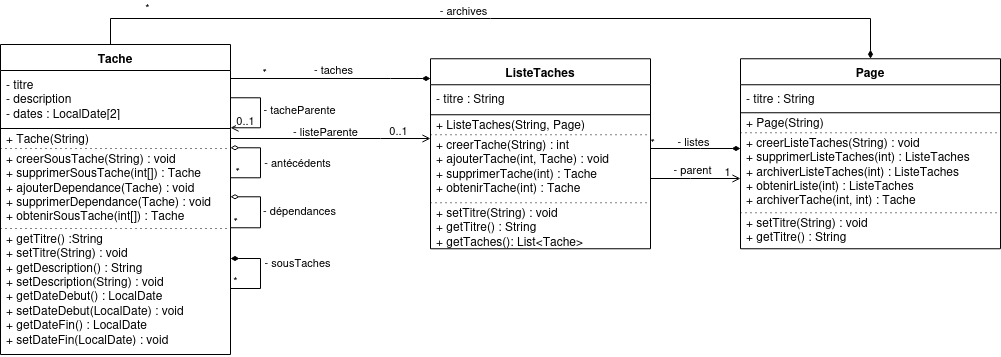
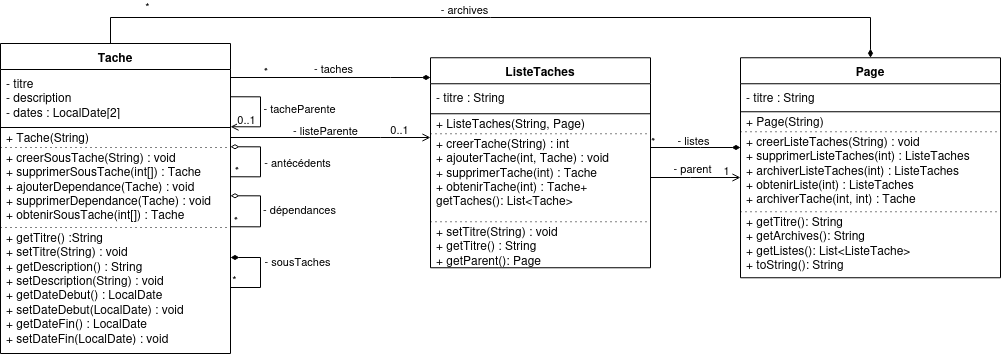
correction doc iteration1 (demande prof)

diff --git a/Documents/Iteration1/bilan.md b/Documents/Iteration1/bilan.md
@@ -1,0 +1,21 @@
+# Bilan itération 1
+
+
+Durant cette itération, nous avons pu mettre en place les bases de notre projet. Nous disposons dorénavant d'un noyau mère fonctionnel pour l'application.
+
+
+### Modification :
+
+- suppression du composite pour les tâches par décision commune
+
+
+### Bug :
+
+- pas de bug découvert et non corrigé pour le moment
+
+
+### Objectif prochaine itération :
+
+- terminer les éléments supplémentaires à la tâche (étiquette, tag, etc)
+- sauvegarde des pages
+- début MVC
